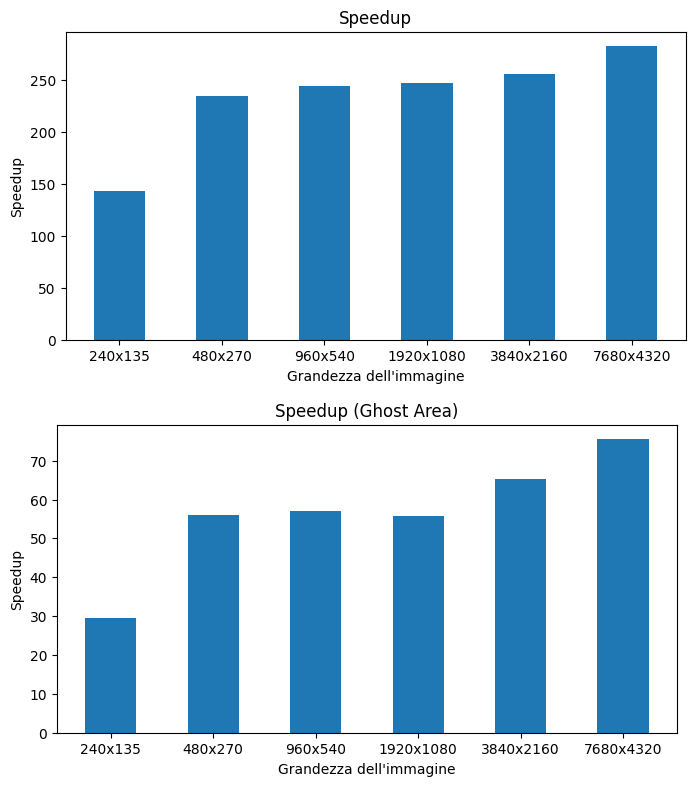
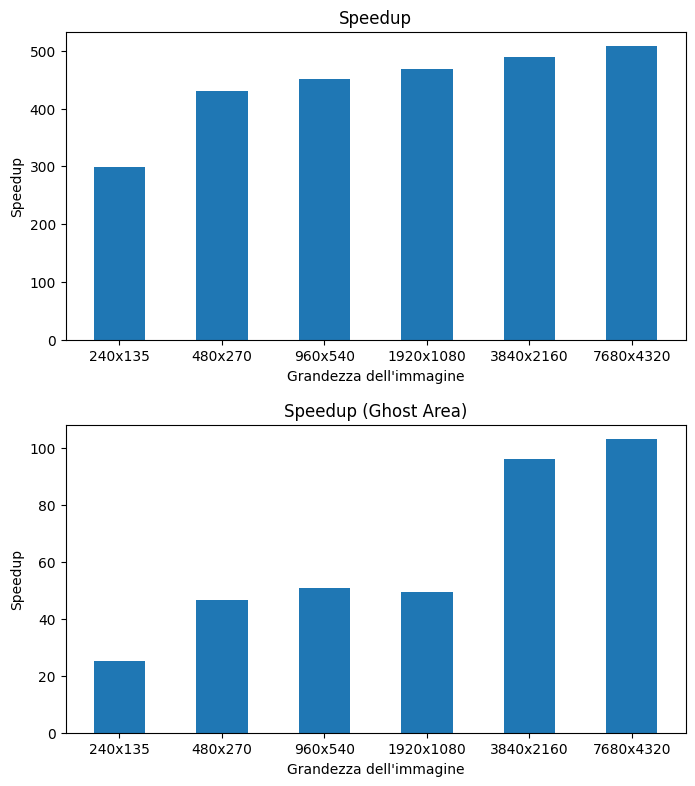
Update everything (again)

diff --git a/report/tesi.tex b/report/tesi.tex
@@ -563,7 +563,7 @@ Infine, per trovare il migliore scorrimento per ogni pixel, basta usare la class
 
 Il processo fatto finora ci dà un'immagine che rappresenta l'altezza dell'area ad ogni pixel. Le altezze memorizzate però valgono solo per i pixel che giacciono sui bordi: essenzialmente tra i bordi ci sono ancora dei buchi e serve un altro passo per trovare le informazioni mancanti per questi buchi. L'algoritmo trova queste informazioni usando un operazione di interpolazione: per ogni pixel la cui altezza è zero, calcola una media sugli intorni dei pixel.
 
-Compiendo questa operazione una sola volta, solo i pixel giacenti vicino ai bordi si riempirebbero, dato che per un pixel ad altezza 0 a sua volta circondato da pixel ad altezza 0 la media rimane 0. Per questo l'operazione viene ripetuta un certo numero di volte, riempiendo gradualmente i buchi ad ogni iterazione, finché tutti i pixel diventino coperti e nessuno abbia altezza 0.
+Compiendo questa operazione una sola volta, solo i pixel giacenti vicino ai bordi si riempirebbero, dato che per un pixel ad altezza 0 a sua volta circondato da pixel ad altezza 0 la media rimane 0. Per questo l'operazione viene ripetuta un certo numero di volte (dettato dalla variabile \verb|times-to-repeat|), riempiendo gradualmente i buchi ad ogni iterazione, finché tutti i pixel diventino coperti e nessuno abbia altezza 0.
 
 \begin{lstlisting}[style=mystyle]
 (defun fill-in-web-holes (web-of-known-elevations times-to-repeat)
@@ -639,7 +639,7 @@ Da questa funzione notiamo alcuni dettagli:
     \item La descrizione originale dell'algoritmo non dice niente sui tipi di dati: si sa solo che le immagini in input sono in bianco e nero, ovvero in scala di grigi, ma non dice nulla sul range di valori. La rappresentazione più comune per immagini in scala di grigi è avere un valore da 0 a 255 per ogni pixel; in questo programma, però, si è scelto un'altra rappresentazione: i valori sono in virgola mobile (\verb|double|) e vanno da 0 a 1, dove 0 indica il nero e 1 indica il bianco. Si è scelto questo per via del fatto che l'operazione di moltiplicazione della soglia a riga 11 ha senso solo con questa rappresentazione (anche la soglia ha un valore da 0 a 1).
     \item Mentre in *Lisp le funzioni parallele agiscono su tutti gli elementi in automatico, in CUDA non è così: bisogna sempre fare un indicizzazione esplicita all'accesso degli array.
     \item Il codice in *Lisp non ha nessun controllo sui bordi della \textit{pvar}: è il linguaggio stesso che fa questi controlli. CUDA non fa nessun controllo, per cui si è scelto che la funzione \verb|idx|, che ha il compito di semplificare l'indicizzazione, faccia un \textit{wrap-around} ogni volta che gli indici sono superiori ai bordi (\verb|w| e \verb|h|).
-    \item Infine, la funzione \verb|CLAMP| fa si che il risultato della moltiplicazione resti tra 0 e 1.
+    \item Infine, la funzione \verb|CLAMP| a riga 11 fa si che il risultato della moltiplicazione resti tra 0 e 1.
 \end{itemize}
 
 Come nell'implementazione originale, questa funzione viene implementata per tutti gli altri lati e le quattro funzioni risultanti vengono combinate:
@@ -659,18 +659,18 @@ __global__ void find_all_edges(double *brightness, int w, int h,
 }
 \end{lstlisting}
 
-Il risultato viene messo in \verb|edges|. Quest'ultimo è un immagine \textit{binaria}, ovvero un immagine con solo 0 o 1, dove 0 questa volta indica il bianco e 1 il nero.
+Il risultato viene messo in \verb|edges|. Quest'ultimo è un immagine \textit{binaria}, ovvero un immagine con solo 0 o 1, dove 0 questa volta indica il bianco e 1 il nero. Per questo tipo di immagini si userà sempre il tipo \verb|u8 *|.
 
-La macro \verb|DECLARE_INDEXES| dichiara una coppia di coordinate \verb|x| e \verb|y| che identifica il thread che sta eseguendo, poi fa un controllo su quest'ultima per sapere se attivare il thread per questo kernel. Questo controllo serve nel caso vengano usati troppi thread (che può capitare se la larghezza o l'altezza delle immagini di input non sono multipli della dimensione del blocco predefinita). La macro viene usata in ogni kernel e viene espansa nel seguente codice:
+La macro \verb|DECLARE_INDEXES| a riga 4 dichiara una coppia di coordinate \verb|x| e \verb|y| che identifica il thread che sta eseguendo, poi fa un controllo su quest'ultima per sapere se attivare il thread per questo kernel. Questo controllo serve nel caso vengano usati troppi thread (che può capitare se la larghezza o l'altezza delle immagini di input non sono multipli della dimensione del blocco predefinita). La macro viene usata in ogni kernel e viene espansa nel seguente codice:
 
-\begin{lstlisting}
+\begin{lstlisting}[style=mystyle]
 int x = threadIdx.x + blockIdx.x * blockDim.x;
 int y = threadIdx.y + blockIdx.y * blockDim.y;
 if (x >= width || y >= height)
     return;
 \end{lstlisting}
 
-La funzione \verb|IDX|, utilizzata per indicizzare \verb|edges|, è una versione di \verb|idx| che non fa nessun \textit{wrap-around}, dato che in questo caso è impossibile che \verb|x| e \verb|y| siano fuori dai bordi.
+La funzione \verb|IDX| a riga 5, utilizzata per indicizzare \verb|edges|, è una versione di \verb|idx| che non fa nessun \textit{wrap-around}. Viene usata perché in questo caso è impossibile che \verb|x| e \verb|y| escano fuori dai bordi.
 
 \section{Ricerca di corrispondenze tra i bordi}
 
@@ -696,7 +696,7 @@ void free_matches()
 }
 \end{lstlisting}
 
-La funzione \verb|ALLOCATE_GPU| è un semplice \textit{wrapper} della funzione \verb|cudaMalloc| che ne semplifica il funzionamento. Dato che l'\textit{host} non ha accesso diretto alla memoria sul \textit{device}, si usa la funzione \verb|cudaMemcpyToSymbol| per aggiornare \verb|matches|.
+La funzione \verb|ALLOCATE_GPU| a riga 7 è un semplice \textit{wrapper} della funzione \verb|cudaMalloc| che ne semplifica il funzionamento. Dato che l'\textit{host} non ha accesso diretto alla memoria sul \textit{device}, si usa la funzione \verb|cudaMemcpyToSymbol| per aggiornare \verb|matches|.
 
 La funzione seguente è una traduzione diretta della funzione originale \verb|fillup-pvars-wherever-edges-align|. Da notare che gli elementi di \verb|matches| sono tutte immagini binarie.
 
@@ -733,7 +733,7 @@ __global__ void addup_pixels_in_square(int i, int width, int height,
 }
 \end{lstlisting}
 
-Per calcolare i punteggi ci serviamo di una struttura dati simile a \verb|matches|: le funzioni per allocare e liberare la memoria sono equivalenti.
+Per calcolare i punteggi ci serviamo di una struttura dati simile a \verb|matches|: le funzioni per allocare e liberare la memoria sono equivalenti. L'array \verb|scores| contiene immagini che rappresentano punteggi: per questo tipo di immagini, e anche per immagini che rappresentano altezze, si userà sempre il tipo \verb|i32 *|.
 
 Le seguenti funzioni corrispondono alla funzione originale \\ \verb|fillup-pvars-with-match-scores|, ma sono divise in due per via della \verb|cudaMemset| fatta prima di riempire l'array \verb|sum|: quest'ultimo viene usato in questo modo per evitare di fare più allocazioni.
 
@@ -766,18 +766,19 @@ void fillup_scores(int width, int height, int square_width, i32 *sum)
 }
 \end{lstlisting}
 
-Qui si può anche notare il metodo di chiamata di una funzione kernel: la macro \verb|DECLARE_BLOCKS| si espande in:
+Qui si può anche notare il metodo di chiamata di una funzione kernel: la macro \verb|DECLARE_BLOCKS| a riga 16 si espande in:
 
 \begin{lstlisting}[style=mystyle]
-const int BLOCKS_WIDTH = ceil_div(width, BLOCK_DIM_SIDE);
+const int BLOCKS_WIDTH  = ceil_div(width, BLOCK_DIM_SIDE);
 const int BLOCKS_HEIGHT = ceil_div(height, BLOCK_DIM_SIDE);
-const dim3 NUM_BLOCKS = dim3(BLOCKS_WIDTH, BLOCKS_HEIGHT);
+const dim3 NUM_BLOCKS   = dim3(BLOCKS_WIDTH, BLOCKS_HEIGHT);
 \end{lstlisting}
 
 Da come si è già potuto notare, il programma utilizza i blocchi e i thread come se se fossero una griglia 2D. La funzione \verb|ceil_div| serve per calcolare l'esatto numero di blocchi che servono a partire dalle dimensioni delle immagini.
 
-
 Infine, la funzione seguente esegue la ricerca del punteggio massimo per ogni pixel. La funzione \verb|MAX| a riga 11 calcola il massimo tra due valori.
+
+\newpage
 
 \begin{lstlisting}[style=mystyle]
 // this function computes the web of known shifts. recall that
@@ -828,7 +829,7 @@ i32 *fill_web_holes(i32 *web, i32 *tmp, int width, int height, int times)
 }
 \end{lstlisting}
 
-Infine, le funzioni seguenti implementano la creazione della \textit{contour map}: di particolare nota sono le due funzioni \verb|image_max| e \verb|imagine_min|, che sono \textit{built-in} in *Lisp ma non in CUDA, per cui sono state implementate a mano usando un operazione di riduzione.
+Infine, le funzioni seguenti implementano la creazione della \textit{contour map}: di particolare nota sono le due funzioni \verb|image_max| e \verb|imagine_min| a righe 20 e 21, che sono \textit{built-in} in *Lisp ma non in CUDA, per cui sono state implementate a mano usando un operazione di riduzione.
 
 \begin{lstlisting}[style=mystyle]
 __global__ void draw_contour_map_kernel(i32 *web, int width,
@@ -868,14 +869,22 @@ Un'altra ottimizzazione sarebbe provare a rimuovere il \textit{double buffering}
 
 \section{Altri dettagli}
 
-Dal punto di vista della \textit{Stereo Vision}, i risultati di questo algoritmo non sembrano molto buoni: le immagini che si ottengono sono molto rumorose. Non si capisce bene se questo sia colpa dell'algoritmo o dell'implementazione in CUDA; dato che lo scopo, però, è quello la traduzione dell'algoritmo, si è deciso di non indagare su questo problema.
+In questa implementazione ci sono quattro parametri che si possono cambiare a piacimento per avere un immagine di output migliore. Essi sono:
 
+\begin{itemize}
+    \item Il valore di soglia \verb|threshold| utilizzato nella ricerca dei bordi;
+    \item Il valore del lato del quadrato, \verb|square_width|, utilizzato nel calcolo dei punteggi;
+    \item Il valore di \verb|times|, che indica quante volte ripetere l'operazione di riempimento dei buchi;
+    \item Il numero di linee da tracciare, \verb|num_lines|.
+\end{itemize}
+
+Dal punto di vista della \textit{Stereo Vision}, i risultati di questo algoritmo non sembrano molto buoni: le immagini che si ottengono sono molto rumorose. Non si capisce bene se questo sia colpa dell'algoritmo o dell'implementazione in CUDA; dato che lo scopo, però, è quello la traduzione dell'algoritmo, si è deciso di non indagare troppo su questo problema.
 
 \chapter{Valutazione delle prestazioni}
 
 \section{Descrizione dei test}
 
-Per testare le prestazioni dell'algoritmo, sono state create quattro versioni: una versione seriale, una versione parallela (da cui proviene il codice presentato) e due versioni seriale e parallela che usano la \textit{ghost area}.
+Per testare le prestazioni dell'algoritmo, sono state create quattro versioni: una versione seriale, una versione parallela (da cui proviene il codice presentato) e due versioni seriale e parallela che usano la \textit{ghost area}. Per ogni test si sono usati gli stessi parametri: \verb|threshold| uguale a 0.15; \verb|square_width| uguale a 21; \verb|times| uguale a 32; \verb|num_lines| uguale a 10.
 
 Per quanto riguarda i test, si è scelto di usare alcune coppie di immagini di varie grandezze. Le coppie di immagini sono tutte uguali, avendo le dimensioni come unica differenza; si è provato anche ad usare immagini diverse, ma non sono state riscontrate differenze reali nei tempi di esecuzione.
 
@@ -904,7 +913,7 @@ Di seguito si possono vedere i dati raccolti sia per lo \textit{Speedup} che per
     \label{img:times_ser}
 \end{figure}
 
-La figura \ref{img:times_ser} un grafico dei tempi per i programmi seriali. Si noti in particolare il tempo per le immagini più grandi: 2 minuti e mezzo per la versione normale e mezzo minuto per quella con \textit{ghost area}. Alla luce di ciò si può dire che la \textit{ghost area} risulta come una buona ottimizzazione.
+La figura \ref{img:times_ser} un grafico dei tempi per i programmi seriali. Si noti in particolare il tempo per le immagini più grandi: 41 minuti per la versione normale e 5 minuti per quella con \textit{ghost area}. Alla luce di ciò si può dire che la \textit{ghost area} risulta come una buona ottimizzazione, anche senza parallelizzazione.
 
 \begin{figure}[h]
     \centering
@@ -913,7 +922,7 @@ La figura \ref{img:times_ser} un grafico dei tempi per i programmi seriali. Si n
     \label{img:times_par}
 \end{figure}
 
-In figura \ref{img:times_par} si trovano i tempi per i programmi paralleli, che risultano tutti minori di un secondo. Un cosa che non si nota dai grafici è che i tempi di esecuzione per la versione con \textit{ghost area} risultano più piccoli di un ordine di grandezza rispetto alla versione normale.
+In figura \ref{img:times_par} si trovano i tempi per i programmi paralleli, che risultano tutti minori di un secondo, eccetto per le immagini più grandi.
 
 \begin{figure}[h]
     \centering
@@ -922,7 +931,7 @@ In figura \ref{img:times_par} si trovano i tempi per i programmi paralleli, che 
     \label{img:speedup}
 \end{figure}
 
-In figura \ref{img:speedup} troviamo lo \textit{speedup} tra le versioni seriali e parallele, rispettivamente senza e con \textit{ghost area}. Da questi grafici osserviamo uno \textit{speedup} di almeno un fattore di 150 per le versioni normali e di 30 per le versioni con \textit{ghost area}.
+In figura \ref{img:speedup} troviamo lo \textit{speedup} tra le versioni seriali e parallele, rispettivamente senza e con \textit{ghost area}. Da questi grafici osserviamo uno \textit{speedup} di almeno un fattore di 300 per le versioni normali e di 20 per le versioni con \textit{ghost area}.
 
 \begin{figure}[h]
     \centering
@@ -931,7 +940,7 @@ In figura \ref{img:speedup} troviamo lo \textit{speedup} tra le versioni seriali
     \label{img:throughput}
 \end{figure}
 
-Infine, la figura \ref{img:throughput} mostra il \textit{throughput} delle due versioni parallele. Il \textit{throughput} qui viene misurato in pixel per secondo, contando anche il numero di volte in cui viene processata un intera immagine. Si noti come il grafico mostri un limite maggiore di 8-9 miliardi di pixel per secondo per il \textit{throughput}.
+Infine, la figura \ref{img:throughput} mostra il \textit{throughput} delle due versioni parallele. Il \textit{throughput} qui viene misurato in pixel per secondo, contando anche il numero di volte in cui viene processata un intera immagine. Si noti come il grafico mostri un limite maggiore di 6 miliardi di pixel per secondo per il \textit{throughput}.
 
 \chapter*{Conclusioni}
 

diff --git a/test/make_graph.py b/test/make_graph.py
@@ -48,9 +48,9 @@ graph_sp("Speedup",              "sppar",   np.array(serial[:-1])       / parall
 graph_sp("Speedup (Ghost Area)", "sppargh", np.array(serial_ghost[:-1]) / parallel_ghost[:-1], "Grandezza dell'immagine", "Speedup")
 
 def throughput(t, w, h):
-    return w * h * (4 + 4 + 30 + 30*2 + 1 + 32 + 1) / t / 1000000000
+    return w * h * (4*2 + 30 + 21*21 + 30*2 + 1 + 32 + 1 + 1 + 1) / t / 1000000000
 
-tp_parallel = [ throughput(t, w, h) for t, w, h in zip(parallel[:-1],       ws, hs) ]
+tp_parallel = [ throughput(t, w, h) for t, w, h in zip(parallel[:-1],  ws, hs) ]
 tp_ghost    = [ throughput(t, w, h) for t, w, h in zip(parallel_ghost, ws, hs) ]
 
 graph_sp("Throughput",              "tppar",   tp_parallel, "Grandezza dell'immagine", "Pixel al secondo (in miliardi)")

diff --git a/src/stereo-ghost.c b/src/stereo-ghost.c
@@ -125,10 +125,6 @@ void fillup_matches(u8 *left_edges, u8 *right_edges,
     }
 }
 
-
-
-// step 3
-
 // the square for each pixel is to be centered on that pixel.
 // the double for loop is slightly different than the original,
 // going from -half to +half.
@@ -223,7 +219,7 @@ void find_highest_scoring_shifts(i32 *best_scores, i32 *winning_shifts, int widt
 
 
 
-// step 4
+// step 3
 
 // each time though the loop, every pixel not on the web (i.e., every pixel that is not
 // zero to begin with) takes on the average elevation of its four neighbors. therefore,

diff --git a/src/stereo.c b/src/stereo.c
@@ -126,10 +126,6 @@ void fillup_matches(u8 *left_edges, u8 *right_edges,
     }
 }
 
-
-
-// step 3
-
 // the square for each pixel is to be centered on that pixel.
 // the double for loop is slightly different than the original,
 // going from -half to +half.
@@ -225,7 +221,7 @@ void find_highest_scoring_shifts(i32 *best_scores,
 
 
 
-// step 4
+// step 3
 
 // each time though the loop, every pixel not on the web (i.e., every pixel that is not
 // zero to begin with) takes on the average elevation of its four neighbors. therefore,
